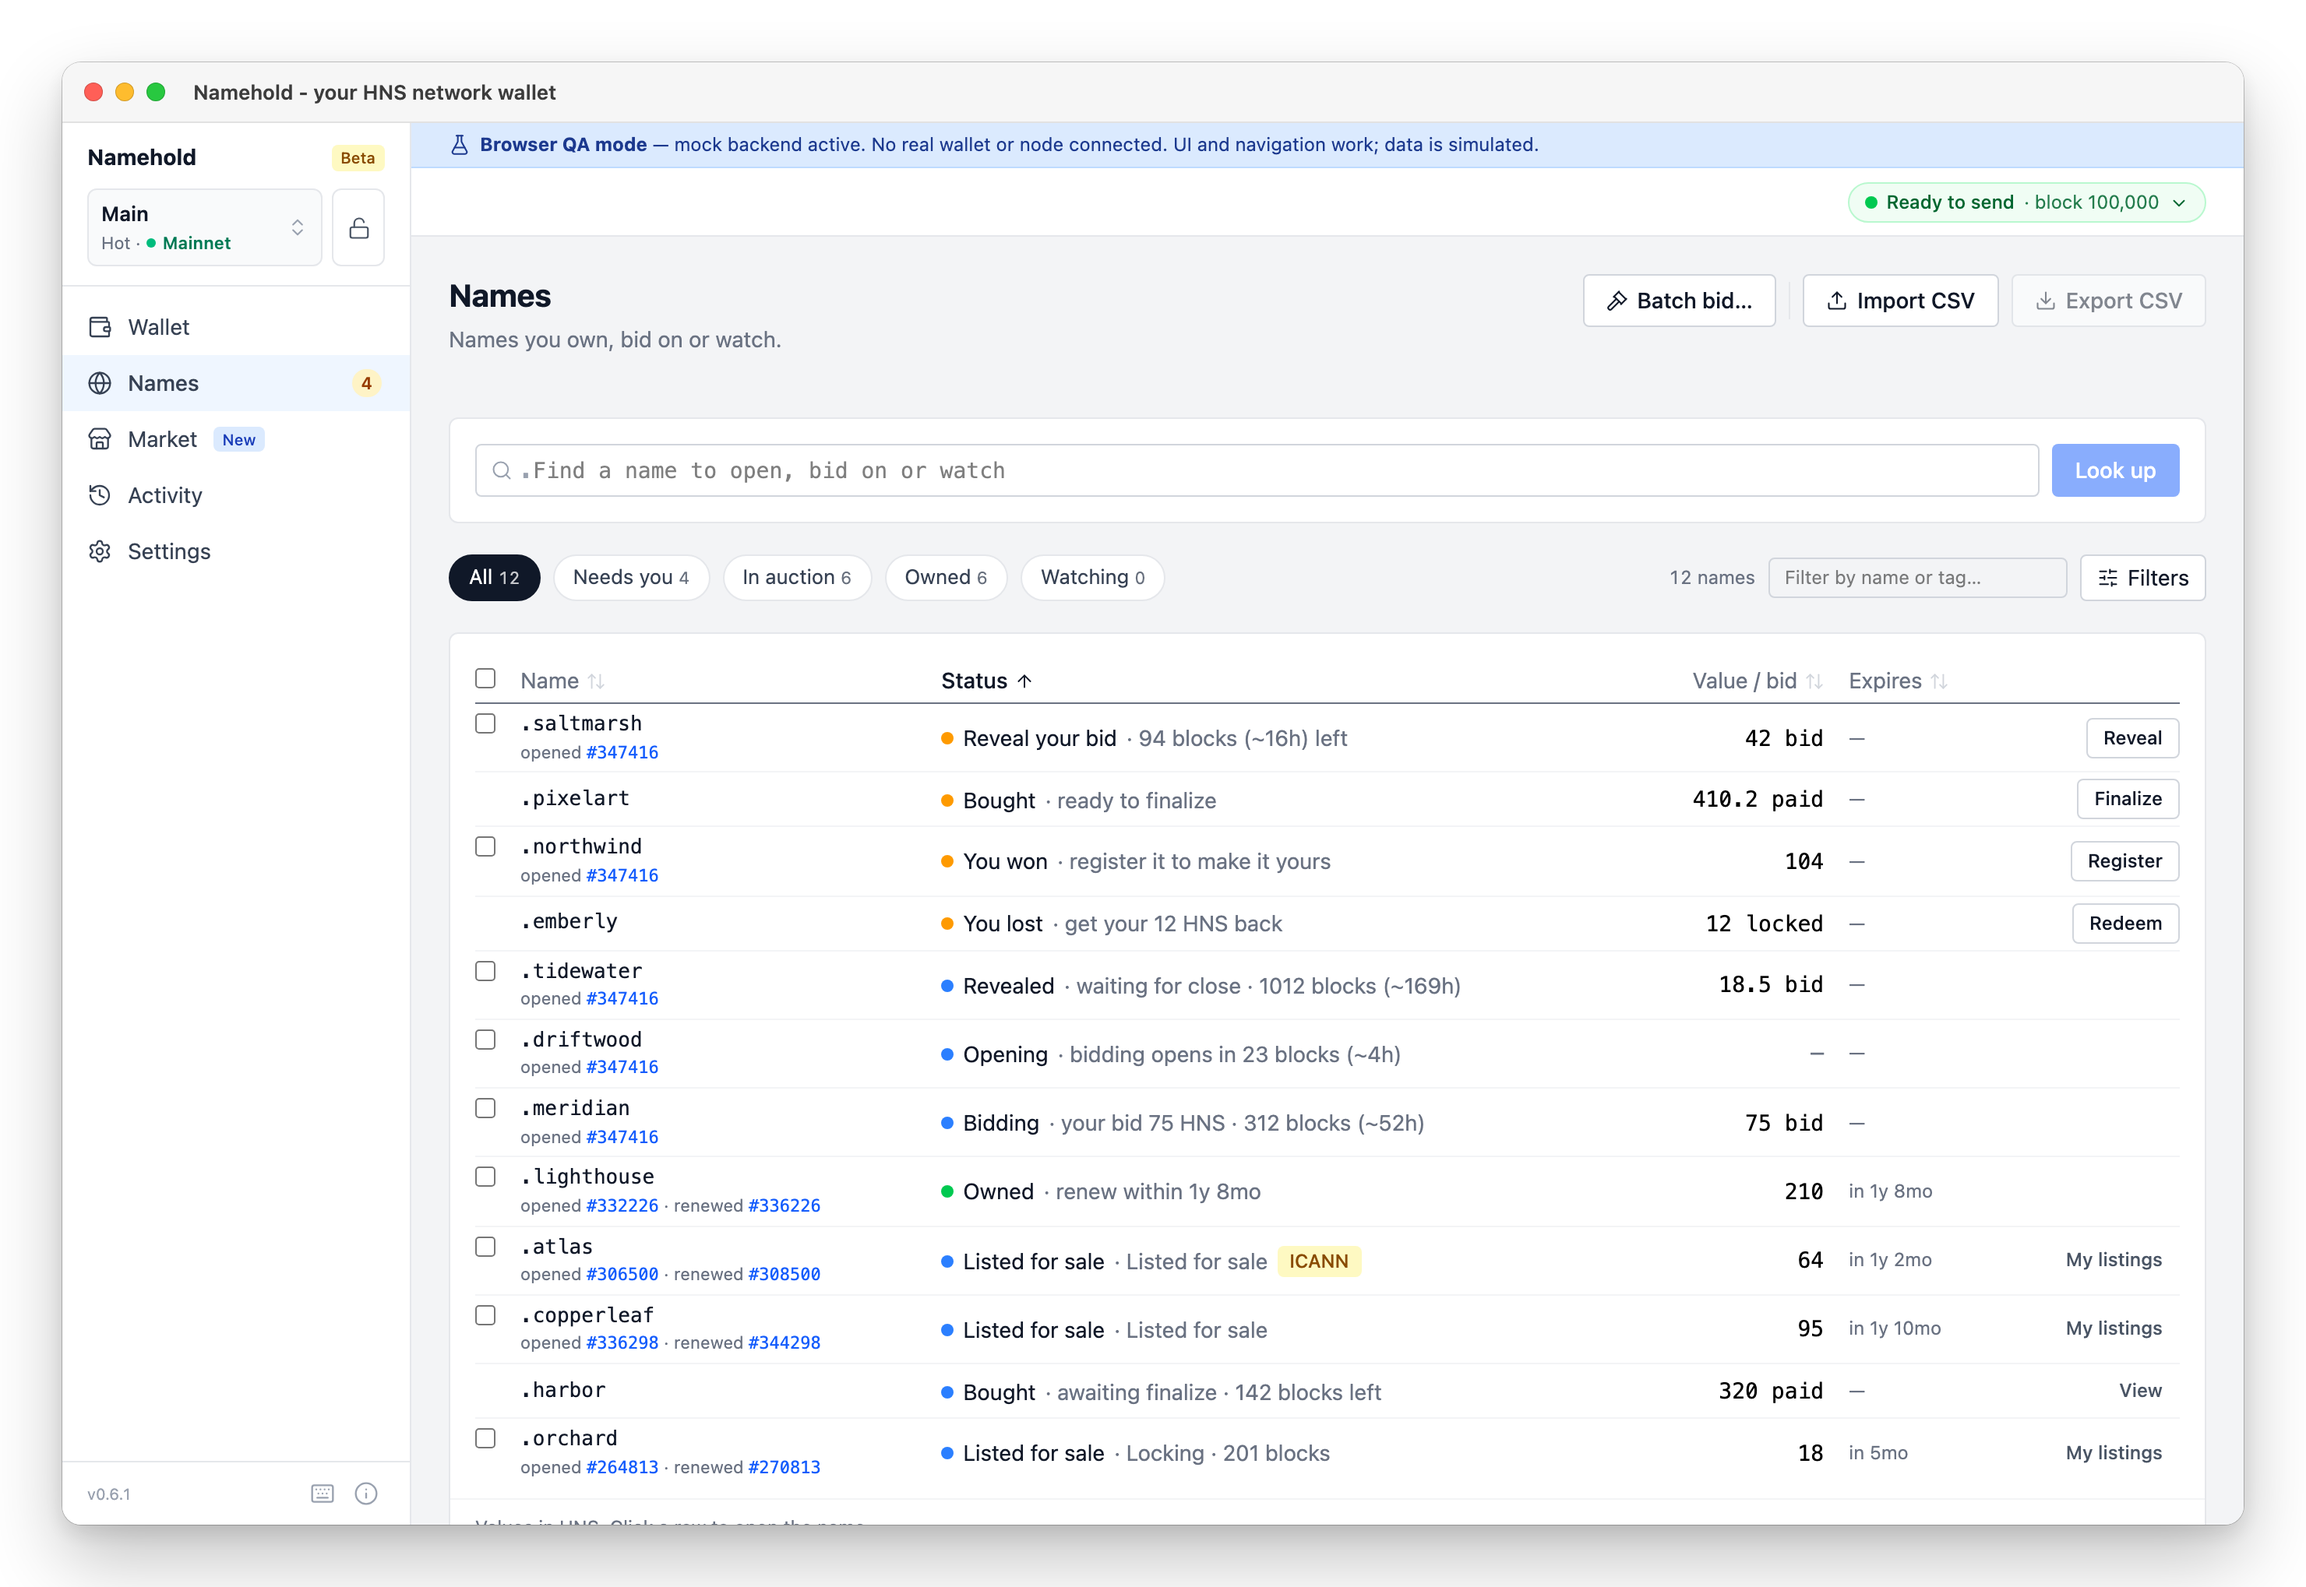
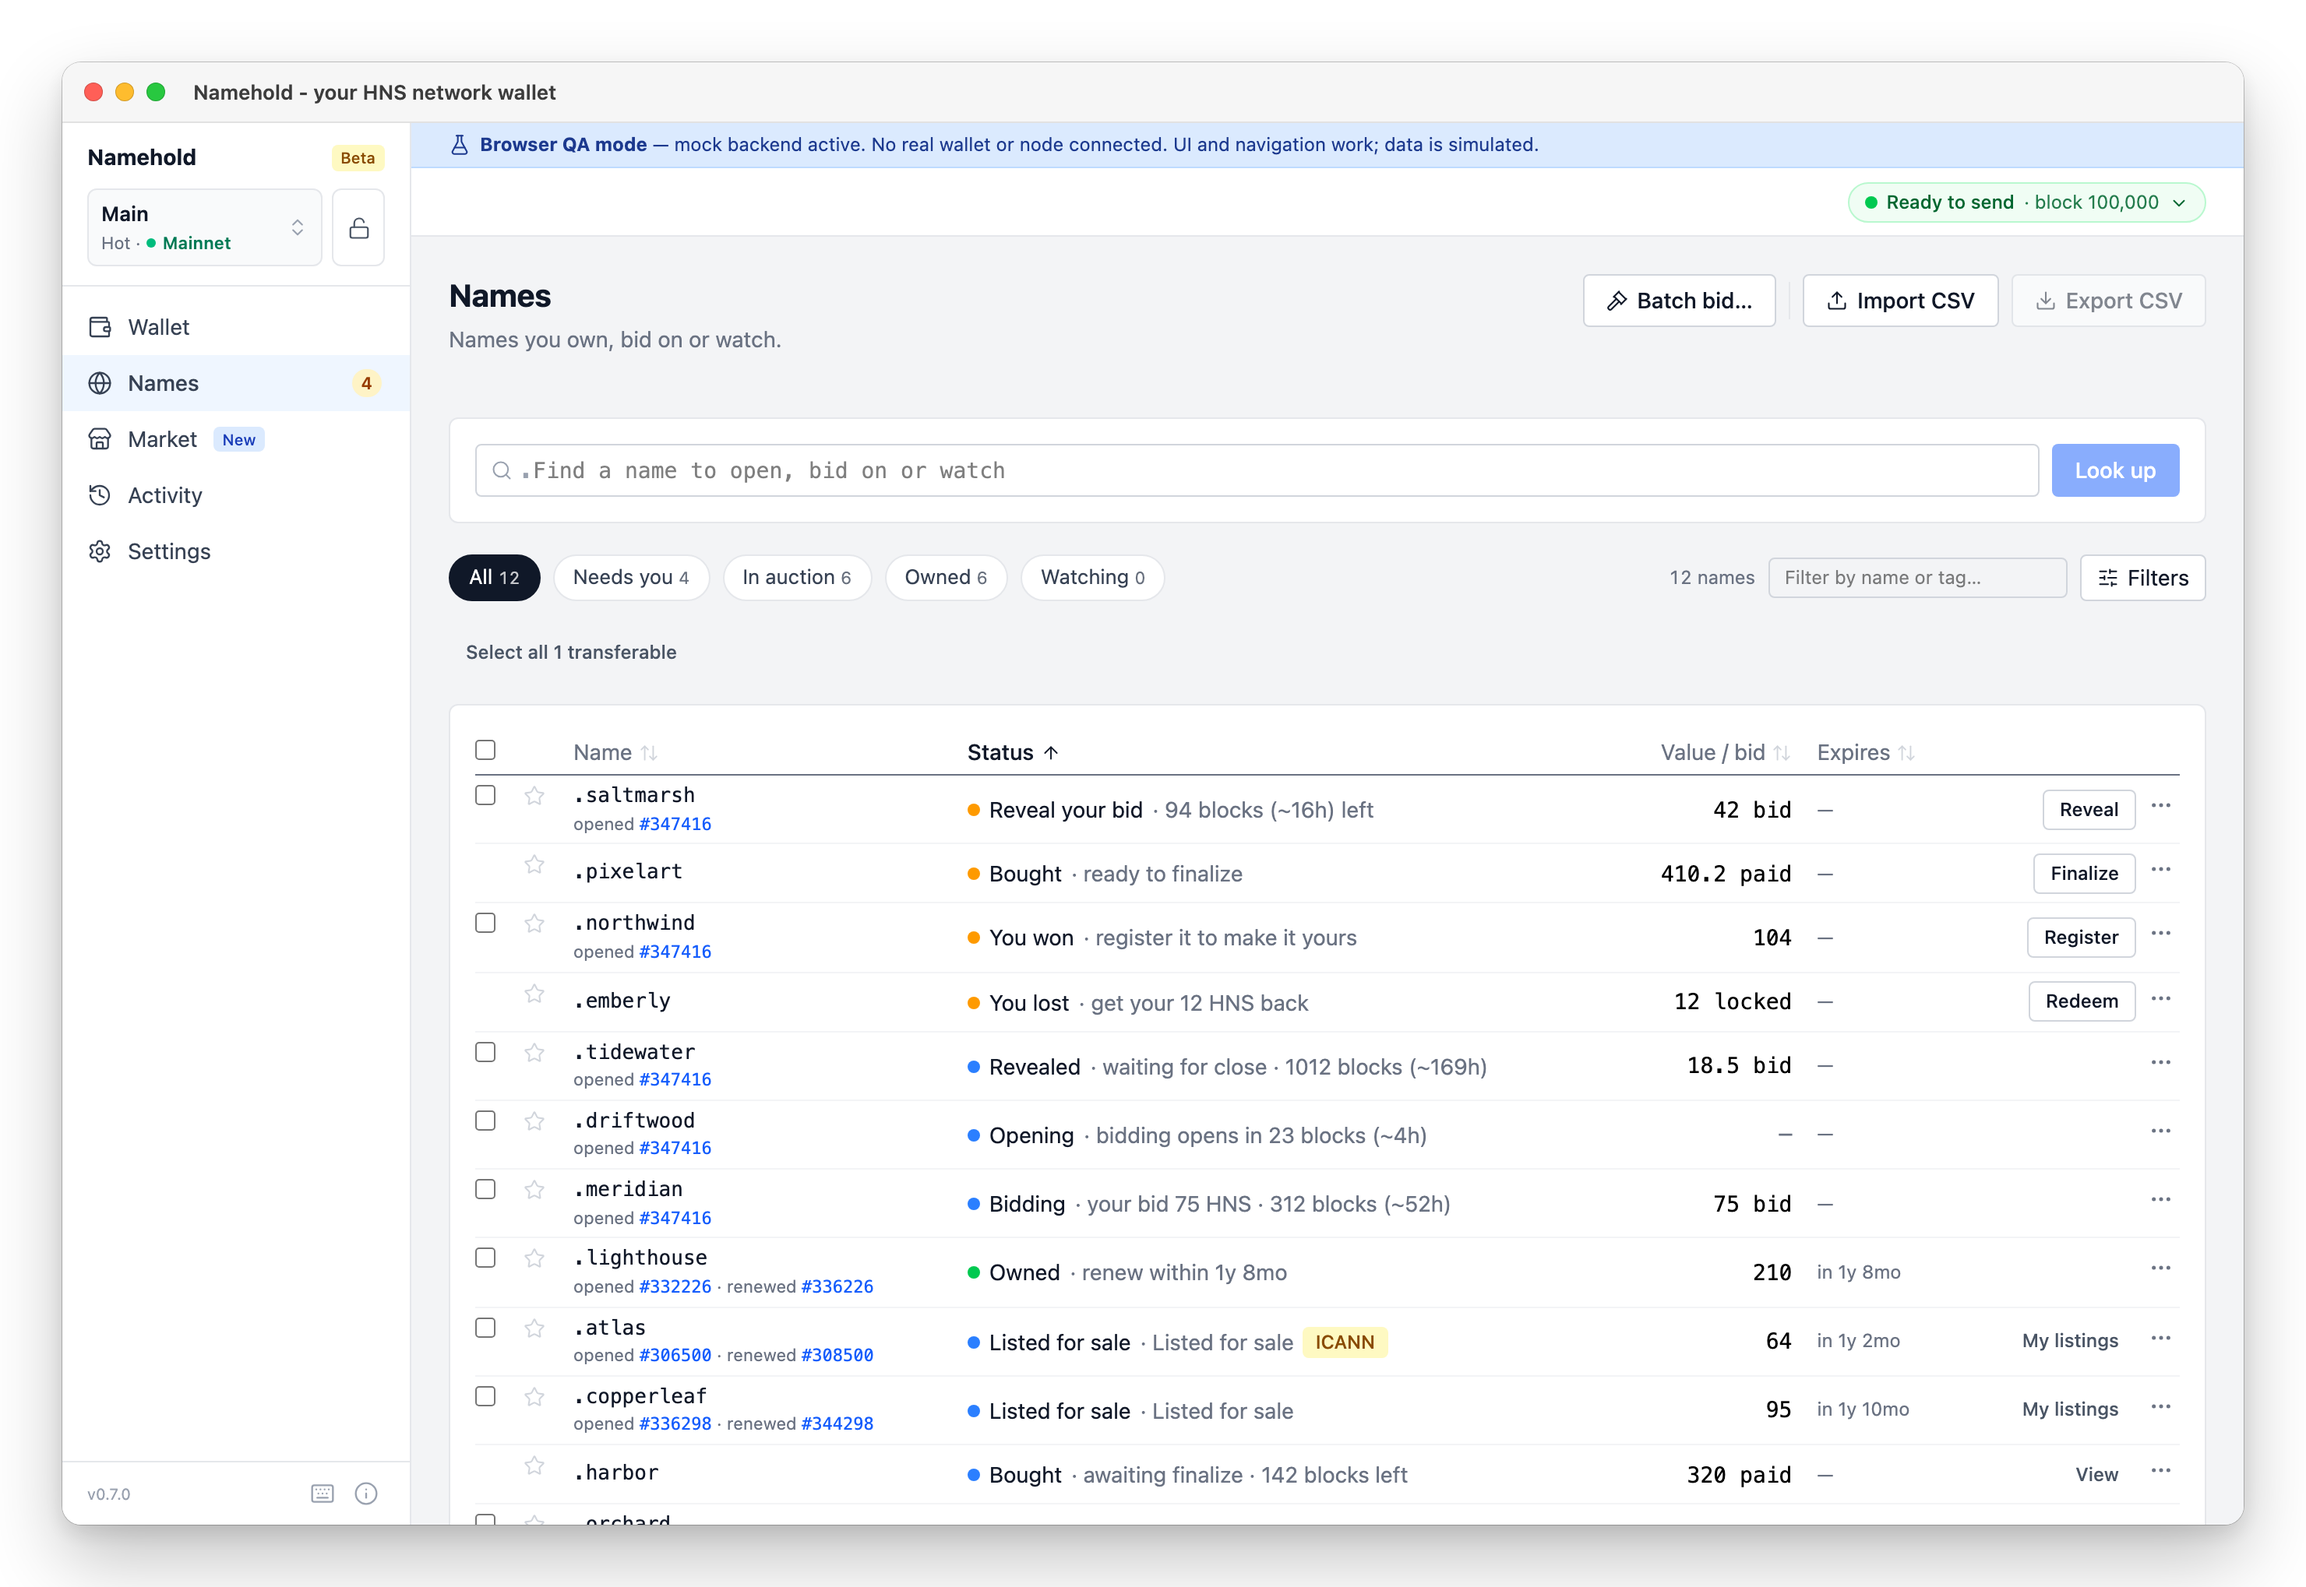
chore: prepare v0.7.0 release
Version 0.7.0 through pnpm version:set, [Unreleased] becomes [0.7.0] with a highlights line that says what to check after updating, screenshots and the ICANN list refreshed. The screenshot showcase still typed its steps with signatures, which stopped reaching the webview in #136, and its typecheck failed.

diff --git a/screenshots/showcase/world.ts b/screenshots/showcase/world.ts
@@ -23,7 +23,7 @@ import type {
   ShakedexListingState,
   ShakedexMyListing,
   ShakedexNameListing,
-  ShakedexStoredStep,
+  ShakedexListingStep,
   WalletBalances,
   WalletProfileSummary,
 } from "../../src/types";
@@ -457,10 +457,9 @@ export function myListings(now: Date): ShakedexMyListing[] {
   const mtp = Math.floor(now.getTime() / 1000) - 3_600;
   const start = mtp - 36 * 3_600;
   return LISTINGS.map((l) => {
-    const steps: ShakedexStoredStep[] = l.prices.map((price, i) => ({
+    const steps: ShakedexListingStep[] = l.prices.map((price, i) => ({
       price: hns(price),
       lockTime: start - LOCK_TIME_UNIT_SECS + i * 24 * 3_600,
-      signature: "00".repeat(65),
     }));
     const valid = steps.filter((st) => st.lockTime < mtp);
     const ahead = steps.filter((st) => st.lockTime >= mtp);

diff --git a/CHANGELOG.md b/CHANGELOG.md
@@ -2,6 +2,7 @@
 
 ## Releases
 
+- [0.7.0](#070---2026-11-03)
 - [0.6.1](#061---2026-10-25)
 - [0.6.0](#060---2026-10-23)
 - [0.5.0](#050---2026-08-20)
@@ -13,6 +14,10 @@
 - [0.1.0](#010---2026-06-30)
 
 ## [Unreleased]
+
+## [0.7.0] - 2026-11-03
+
+> **Highlights:** a redesigned app, with one Names page, a page per name and a wallet that opens on your balance; a security audit's fixes, so settings that decide whom the wallet trusts and what you sign are confirmed in the secure window; batch actions and renewals for wallets with hundreds of names; and warnings for look-alike names, unknown explorers and first sends. **Saving a node URL now needs https unless the node is on this computer, the node the app starts now requires an API key, and values saved earlier are not re-checked, so look over Settings once after updating.**
 
 ### Security
 - **What you confirm is what is signed.** A send now signs only the coins it reserved when it was built, so a Max send can no longer sweep coins that arrived after you reviewed it, and signing refuses any transaction whose txid is not the one the secure window showed. Change must go to the wallet's own change address, re-derived from its key, for every signer.
